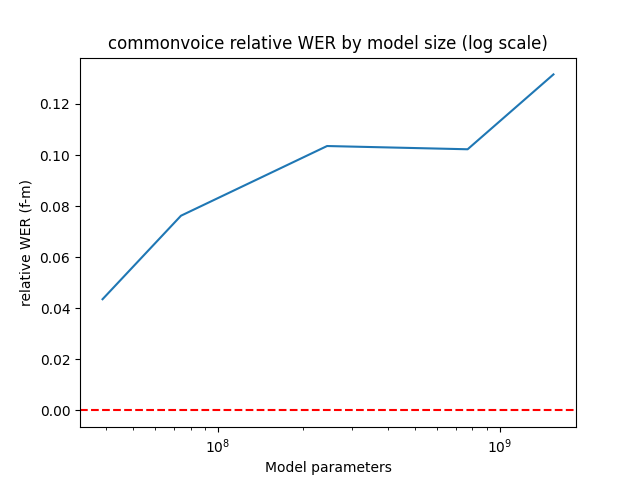
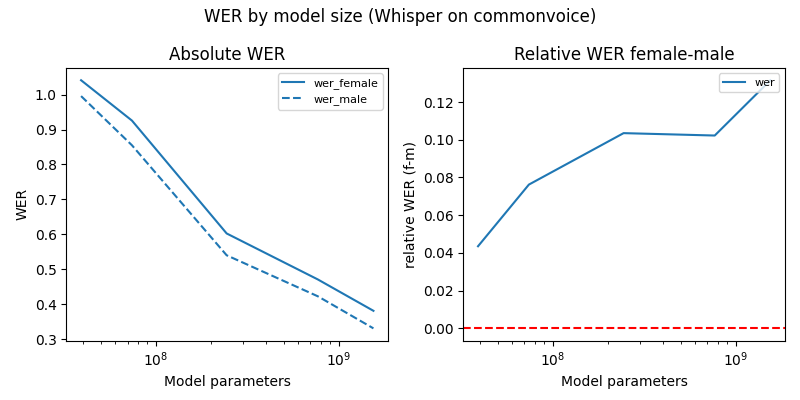
Adds WER results and visualizations

diff --git a/visualize.py b/visualize.py
@@ -241,59 +241,134 @@ def write_wer_table(results, dataset):
   print(tabulate(table, headers='firstrow', tablefmt='latex'))
 
 
-def plot_wer_over_time(results, model_filter):
+def plot_wer_by_year(results, model_filter):
   # Plots time (x)/wer rate (y) per model
   models = get_available_models(results.keys())
 
+  def filter_fn(model):
+    if not model_filter: return False
+    if isinstance(model_filter, str) and model_filter not in model: return True
+    if isinstance(model_filter, list) and model not in model_filter: return True
+    return False
+
+  years = list(range(2009, 2018))
+  years_labels = [years[i] for i in range(len(years)) if (i+1) % 2 == 0]
+
   plt.clf()
-  plt.title('Voxpopuli relative WER over time')
-  plt.axhline(y = 0, color = 'r', linestyle = '--')
-  years = list(range(2009, 2020))
+  plt.figure(figsize = (8,4))
+  plt.suptitle(f'WER by year on Voxpopuli')
+
+  plt.subplot(1, 2, 1) # row 1, col 2 index 1 --> absolute WERS
+
+  plt.title(f'Absolute WER')
+
   for model in models:
-    if model_filter and model_filter not in model: 
+    if filter_fn(model):
       continue
-    years_to_plot = []
-    wers_to_plot = []
+    print(model)
+    years_wers_to_plot_m = []
+    years_wers_to_plot_f = []
+    for year in years:
+      wer_info_f = results[model]['all'].get(f'female_{year}', None)
+      wer_info_m = results[model]['all'].get(f'male_{year}', None)
+      if wer_info_f:
+        years_wers_to_plot_f.append((year, wer_info_f.wer))
+      if wer_info_m:
+        years_wers_to_plot_m.append((year, wer_info_m.wer))
+    p, = plt.plot(*zip(*years_wers_to_plot_f), label=model+'_female')
+    plt.plot(*zip(*years_wers_to_plot_m), label=model+'_male',
+             color=p.get_color(), linestyle='--')
+
+  plt.xlabel('Year')
+  plt.xticks(years_labels, rotation=45)
+  plt.ylabel(f'absolute WER')
+  plt.legend(loc='upper right', fontsize='8')
+
+  plt.subplot(1, 2, 2) # index 2 --> relative WERS
+  
+  plt.title(f'Relative WER female-male')
+  plt.axhline(y = 0, color = 'k', linestyle = '--') 
+
+  for model in models:
+    if filter_fn(model):
+      continue
+    years_wers_to_plot = []
     for year in years:
       wer_info_f = results[model]['all'].get(f'female_{year}', None)
       wer_info_m = results[model]['all'].get(f'male_{year}', None)
       if not (f:=wer_info_f) or not (m:=wer_info_m):
         print(f'{model=}, {year=} missing gender {"male" if f else "male"}')
         continue
-      years_to_plot.append(year)
-      wers_to_plot.append(rel_wer_diff(wer_info_f.wer, wer_info_m.wer))
-                   
-    plt.plot(years_to_plot, wers_to_plot, label=model)
+      rel_wer_d = rel_wer_diff(wer_info_f.wer, wer_info_m.wer)
+      years_wers_to_plot.append((year, rel_wer_d))
+    plt.plot(*zip(*years_wers_to_plot), label=model)
+  
   plt.xlabel('Year')
+  plt.xticks(years_labels, rotation=45)
   plt.ylabel('relative WER (f-m)')
   plt.legend(loc='upper right', fontsize='8')
-  plt.savefig(os.path.join(OUTPUT_DIR, f'rel_wer_by_year_{model_filter}.png'))
+  plt.tight_layout()
+  filename = f'rel_wer_by_year_{model_filter}.png'
+  plt.savefig(os.path.join(OUTPUT_DIR, filename))
+  print('Wrote to', filename)
 
 
 def plot_wer_by_model_size(results, dataset):
   results = results[dataset]
   models = [x for x in get_available_models(results.keys()) if 'whisper' in x]
 
-  model_sizes_to_plot = []
-  wers_to_plot = []
+  plt.clf() 
+  plt.figure(figsize = (8,4))
+  plt.suptitle(f'WER by model size (Whisper on {dataset})')
+  plt.subplot(1, 2, 1) # row 1, col 2 index 1 --> absolute WERS
 
-  plt.clf()
-  plt.title(f'{dataset} relative WER by model size (log scale)')
+  plt.title(f'Absolute WER')
+
+  sizes_and_wers_m_to_plot = []
+  sizes_and_wers_f_to_plot = []
+
+  for model in models:
+    wer_info_f = results[model]['all'].get(f'female', None)
+    if wer_info_f:
+      sizes_and_wers_f_to_plot.append((
+        MODEL_PARAMETERS[model],
+        wer_info_f.wer))
+    wer_info_m = results[model]['all'].get(f'male', None)
+    if wer_info_m:
+      sizes_and_wers_m_to_plot.append((
+        MODEL_PARAMETERS[model],
+        wer_info_m.wer))
+    
+  p, = plt.plot(*zip(*sizes_and_wers_f_to_plot), label='wer_female')
+  plt.plot(*zip(*sizes_and_wers_m_to_plot), label='wer_male',
+           color=p.get_color(), linestyle='--')
+  plt.xlabel('Model parameters')
+  plt.ylabel('WER')
+  plt.xscale("log")
+  plt.legend(loc='upper right', fontsize='8')
+
+  plt.subplot(1, 2, 2) # row 1, col 2 index 1 --> relative WERS
+
+  plt.title(f'Relative WER female-male')
   plt.axhline(y = 0, color = 'r', linestyle = '--')
 
+  sizes_and_wers_to_plot = []
   for model in models:
     wer_info_f = results[model]['all'].get(f'female', None)
     wer_info_m = results[model]['all'].get(f'male', None)
     if not (f:=wer_info_f) or not (m:=wer_info_m):
       print(f'{model=} missing gender {"male" if f else "male"}')
       continue
-    model_sizes_to_plot.append(MODEL_PARAMETERS[model])
-    wers_to_plot.append(rel_wer_diff(wer_info_f.wer, wer_info_m.wer))
+    sizes_and_wers_to_plot.append((
+      MODEL_PARAMETERS[model],
+      rel_wer_diff(wer_info_f.wer, wer_info_m.wer)))
   
-  plt.plot(model_sizes_to_plot, wers_to_plot, label='wer')
+  plt.plot(*zip(*sizes_and_wers_to_plot), label='wer')
   plt.xlabel('Model parameters')
   plt.ylabel('relative WER (f-m)')
   plt.xscale("log")
+  plt.legend(loc='upper right', fontsize='8')
+  plt.tight_layout()
   plt.savefig(os.path.join(OUTPUT_DIR, f'rel_wer_by_model_size_{dataset}.png'))
 
 
@@ -364,23 +439,26 @@ def get_wer_analysis(results):
       
       outputs[dataset][model]['all'] = all_wer_info
 
-  # less than 1000 in test.
-  small_langs = ['ha', 'sr', 'pa-IN', 'hy-AM', 'kk', 'as', 'nn-NO', 'az', 'ml', 'mk']
-
-  # more than 10.000 in test.
-  big_langs = ['ca', 'fr', 'de', 'be', 'es', 'it', 'ba', 'uz', 'ta', 'th', 'nl', 'ar']
-
   for dataset in ['commonvoice', 'voxpopuli']:
     print('------', dataset)
-    # write_wer_table(outputs, dataset)
-    # plot_wer_by_model_size(outputs, dataset)
+    write_wer_table(outputs, dataset)
+    plot_wer_by_model_size(outputs, dataset)
 
     plot_wer_by_model_size_per_lang(outputs, dataset)
-    plot_wer_by_model_size_per_lang(outputs, dataset, small_langs, 'small_langs')
-    plot_wer_by_model_size_per_lang(outputs, dataset, big_langs, 'big_langs')
+    # plot_wer_by_model_size_per_lang(outputs, dataset, small_langs, 'small_langs')
+    # plot_wer_by_model_size_per_lang(outputs, dataset, big_langs, 'big_langs')
 
-  # for model in ['whisper', 'mms']:
-    # plot_wer_over_time(outputs['voxpopuli'], model)
+  # One graph for all Whisper models and one for all MMS models.
+  for model in ['whisper', 'mms']:
+    plot_wer_by_year(outputs['voxpopuli'], model)
+
+  for models_to_compare in [
+    ['whisper_large-v2', 'mms_mms-1b-all'],
+    ['whisper_tiny', 'whisper_large-v2'],
+    ['mms_mms-1b-fl102', 'mms_mms-1b-all']]:
+    plot_wer_by_year(outputs['voxpopuli'], models_to_compare)
+
+  plot_wer_by_year(outputs['voxpopuli'], 'whisper')
 
 
 def main(_):
